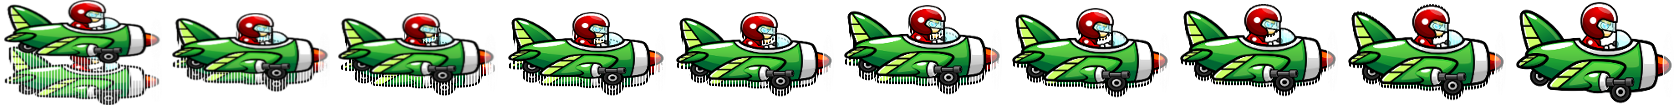
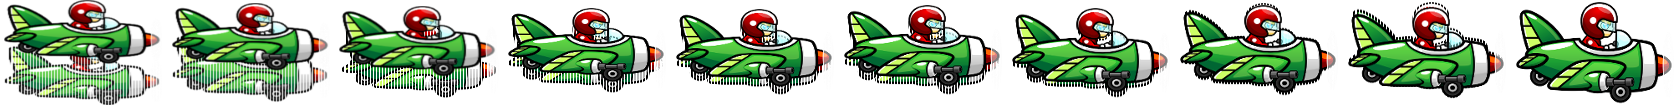
fix animacion salto

Changed region(s): [[0.0929, 0.0286, 0.4952, 0.9714], [0.681, 0.0286, 0.8976, 0.9429]]

diff --git a/entregable-3/js/Game.js b/entregable-3/js/Game.js
@@ -5,7 +5,7 @@ class Game {
         this.playBtn = playBtn;
         this.scoreDiv;
         this.goUp = false;
-        this.upTimer = 20;
+        this.upTimer = 10;
         this.intervalId;
         this.maxTop;
         this.playerContainer;
@@ -109,7 +109,7 @@ class Game {
             if (this.upTimer > 0) {
                 this.upTimer--;
                 //resto 40 al top del jugador
-                this.playerTop -= 4;
+                this.playerTop -= 5;
     
                 //en caso de quedar en negativo lo vuelvo a 0
                 //simulando que se choca el techo
@@ -123,7 +123,7 @@ class Game {
             }
             else {
                 this.goUp = false;
-                this.upTimer = 20;
+                this.upTimer = 10;
                 this.player.flyAnimation();
             }
         }
